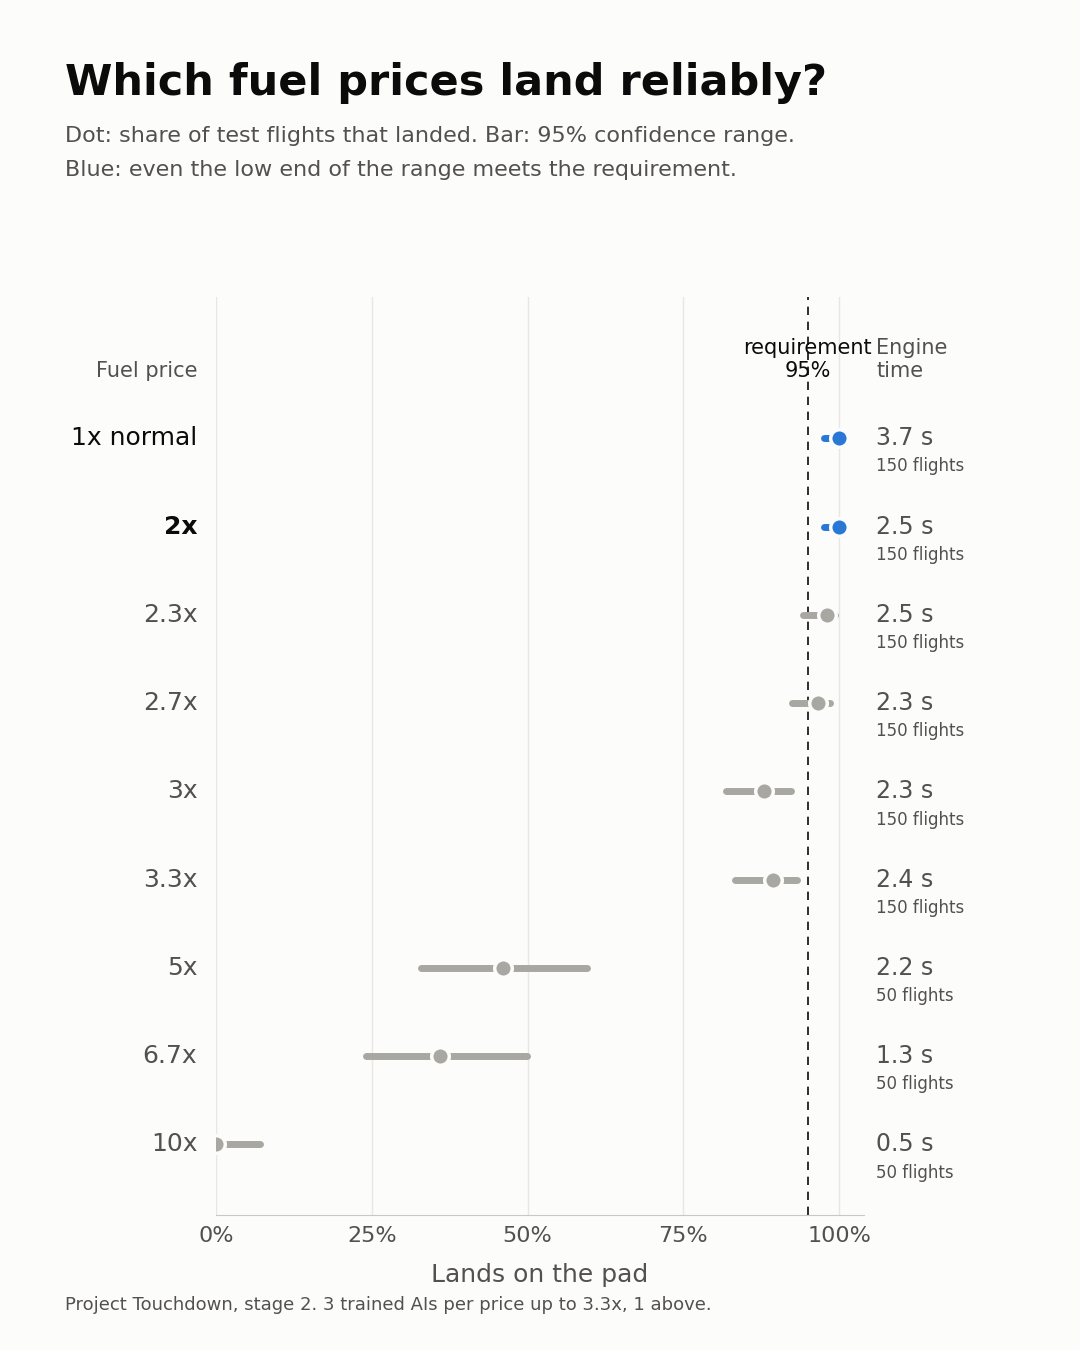
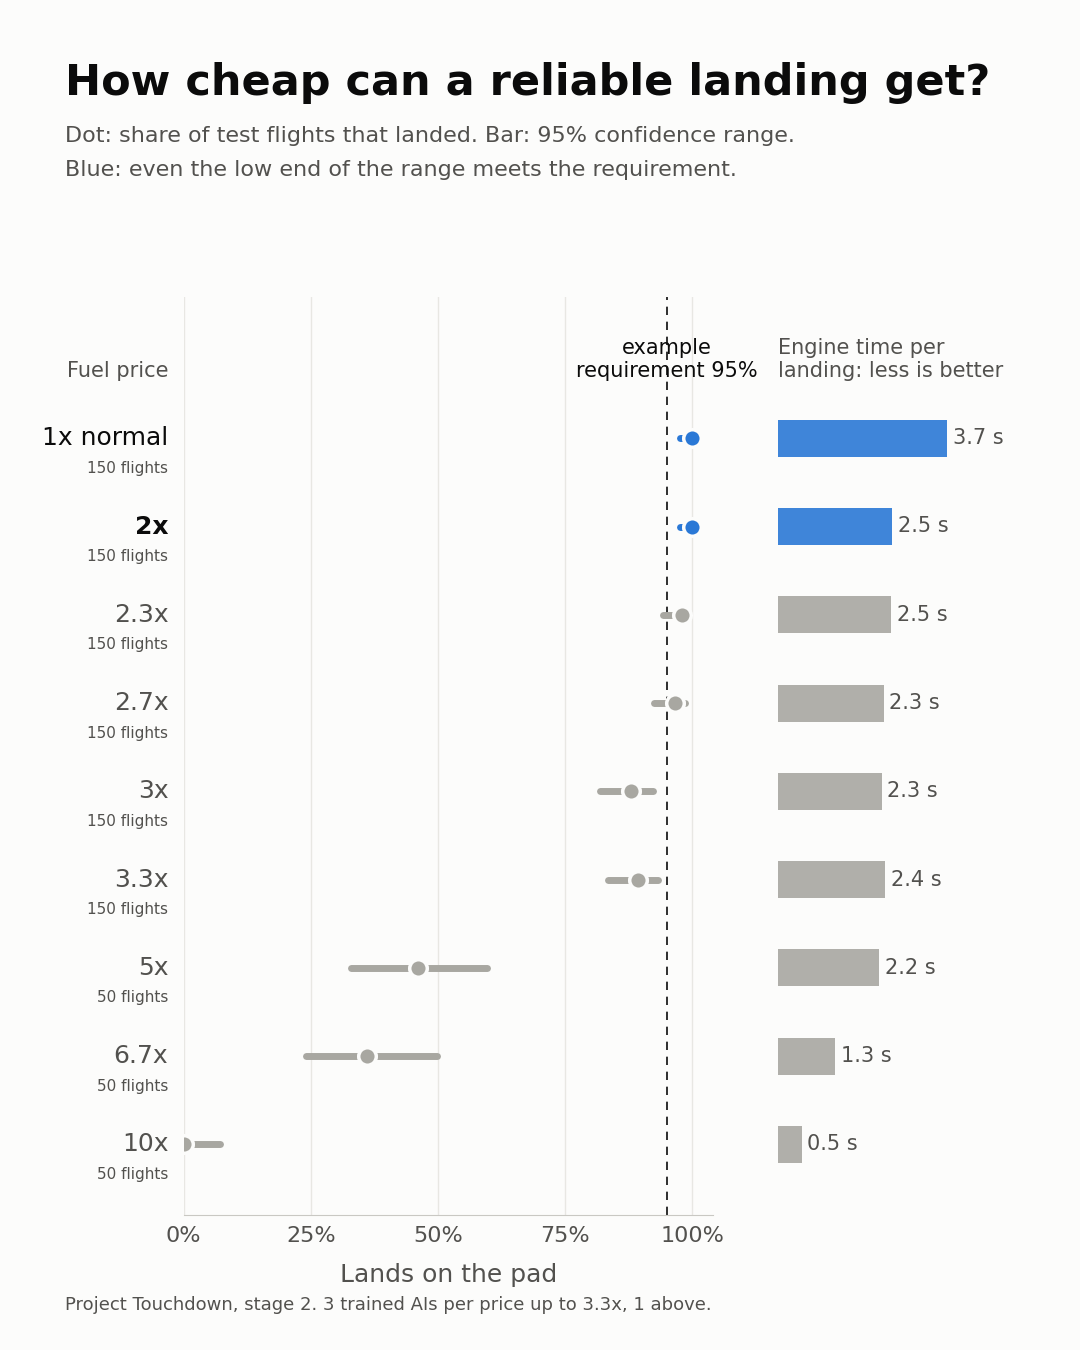
Reliability chart: engine time as bars, example requirement labelled

diff --git a/fuel_reliability.py b/fuel_reliability.py
@@ -47,7 +47,8 @@ PASS, FAIL = "#2a78d6", "#a8a7a1"
 fig, ax = plt.subplots(figsize=(10.8, 13.5), dpi=100)
 fig.patch.set_facecolor(SURFACE)
 ax.set_facecolor(SURFACE)
-fig.subplots_adjust(left=0.2, right=0.8, top=0.78, bottom=0.1)
+fig.subplots_adjust(left=0.17, right=0.66, top=0.78, bottom=0.1)
+fuel_ax = fig.add_axes([0.72, 0.1, 0.22, 0.68], sharey=ax)  # engine time, same rows
 for side in ("top", "right", "left"):
     ax.spines[side].set_visible(False)
 ax.spines["bottom"].set_color("#c9c8c3")
@@ -66,14 +67,19 @@ for y, s in zip(ys, stats):
         name = "1x normal"
     ax.text(-3, y, name, ha="right", va="center", fontsize=18,
             color=INK if s["passes"] else INK2, weight="bold" if s["price"] == 0.6 else "normal")
-    ax.text(106, y, f"{s['engine']:.1f} s", ha="left", va="center", fontsize=17, color=INK2)
-    ax.text(106, y - 0.32, f"{s['n']} flights", ha="left", va="center", fontsize=12, color=INK2)
+    fuel_ax.barh(y, s["engine"], height=0.42, color=color, alpha=0.9)
+    fuel_ax.text(s["engine"] + 0.12, y, f"{s['engine']:.1f} s", ha="left", va="center",
+              fontsize=15, color=INK2)
+    ax.text(-3, y - 0.34, f"{s['n']} flights", ha="right", va="center", fontsize=11, color=INK2)
 
 ax.axvline(REQUIREMENT, color=INK, lw=1.2, ls=(0, (5, 4)), zorder=1)
-ax.text(REQUIREMENT, len(stats) - 0.35, f"requirement\n{REQUIREMENT}%", ha="center",
+ax.text(REQUIREMENT, len(stats) - 0.35, f"example\nrequirement {REQUIREMENT}%", ha="center",
         va="bottom", fontsize=15, color=INK)
 ax.text(-3, len(stats) - 0.35, "Fuel price", ha="right", va="bottom", fontsize=15, color=INK2)
-ax.text(106, len(stats) - 0.35, "Engine\ntime", ha="left", va="bottom", fontsize=15, color=INK2)
+fuel_ax.text(0, len(stats) - 0.35, "Engine time per\nlanding: less is better", ha="left",
+          va="bottom", fontsize=15, color=INK2)
+fuel_ax.set_xlim(0, 5.2)
+fuel_ax.axis("off")
 
 ax.set_xlim(0, 104)
 ax.set_ylim(-0.8, len(stats) + 0.6)
@@ -82,7 +88,7 @@ ax.set_xticks([0, 25, 50, 75, 100])
 ax.set_xticklabels(["0%", "25%", "50%", "75%", "100%"])
 ax.set_xlabel("Lands on the pad", fontsize=18, color=INK2, labelpad=12)
 
-fig.text(0.06, 0.93, "Which fuel prices land reliably?", fontsize=31, color=INK, weight="bold")
+fig.text(0.06, 0.93, "How cheap can a reliable landing get?", fontsize=31, color=INK, weight="bold")
 fig.text(0.06, 0.895, "Dot: share of test flights that landed. Bar: 95% confidence range.",
          fontsize=16, color=INK2)
 fig.text(0.06, 0.87, "Blue: even the low end of the range meets the requirement.",

diff --git a/README.md b/README.md
@@ -99,7 +99,7 @@ tested on the original rules, 50 flights each.
 I trained 3 AIs per fuel price and tested each on 50 flights. The bar is the
 95% confidence range: test again and the true landing rate would most likely
 fall inside it. Up to 2x the normal fuel price, even the low end of that range
-stays above a 95% requirement. Script: `fuel_reliability.py`.
+stays above an example requirement of 95%. Script: `fuel_reliability.py`.
 
 ### What I learned
 
